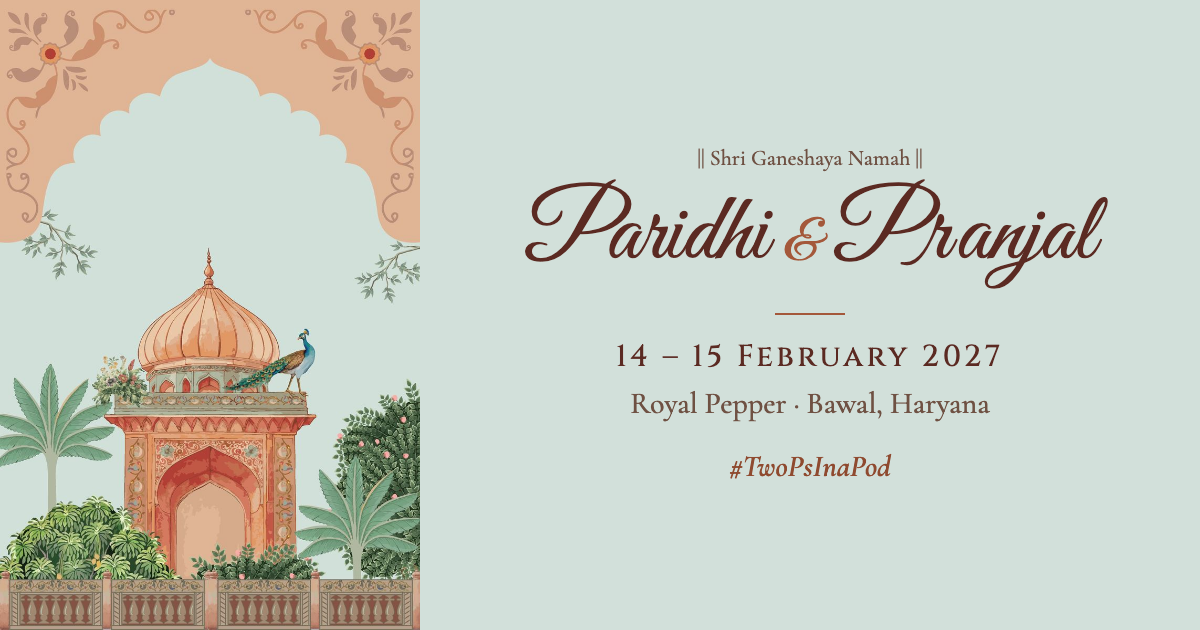
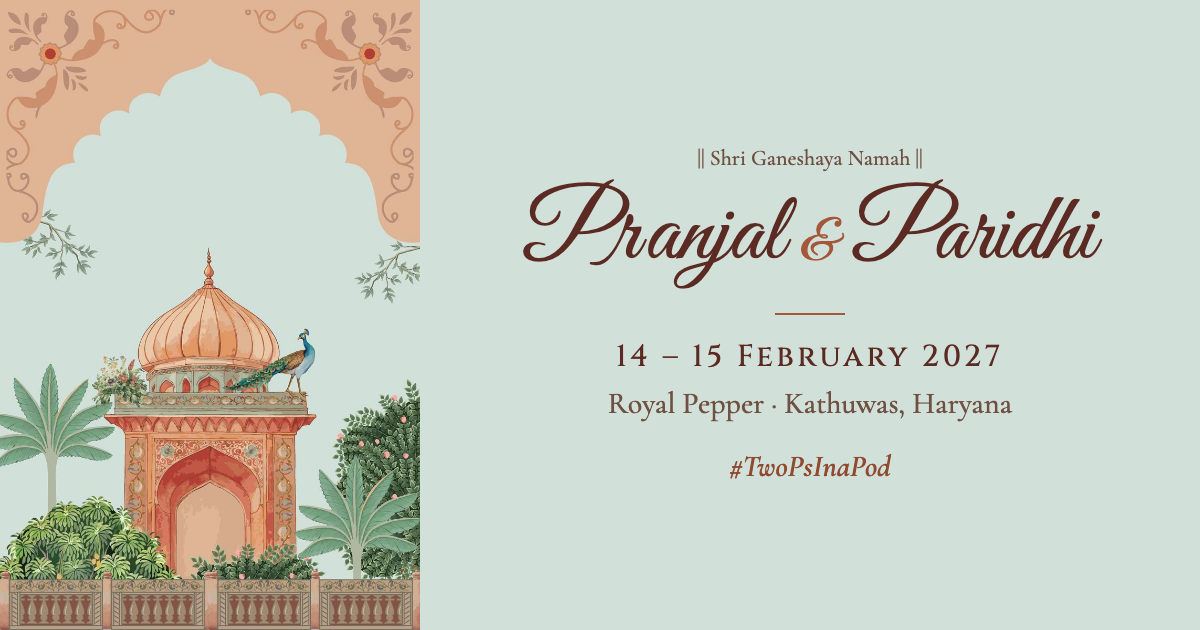
Match the printed cards: Pranjal & Paridhi, Royal Pepper in Kathuwas

Changed region(s): [[0.4317, 0.2714, 0.925, 0.4524], [0.4933, 0.6032, 0.8633, 0.6635], [0.4317, 0.3921, 0.4625, 0.4222]]

diff --git a/index.html b/index.html
@@ -3,11 +3,11 @@
 <head>
   <meta charset="utf-8" />
   <meta name="viewport" content="width=device-width, initial-scale=1" />
-  <title>Paridhi &amp; Pranjal · 14–15 February 2027</title>
+  <title>Pranjal &amp; Paridhi · 14–15 February 2027</title>
   <meta name="robots" content="noindex" />
-  <meta name="description" content="Join us in Bawal, Haryana on 14 and 15 February 2027 as Paridhi and Pranjal get married." />
-  <meta property="og:title" content="Paridhi &amp; Pranjal are getting married" />
-  <meta property="og:description" content="14–15 February 2027 · Royal Pepper, Bawal. Functions, venues, stay and RSVP." />
+  <meta name="description" content="Join us in Kathuwas, Haryana on 14 and 15 February 2027 as Pranjal and Paridhi get married." />
+  <meta property="og:title" content="Pranjal &amp; Paridhi are getting married" />
+  <meta property="og:description" content="14–15 February 2027 · Royal Pepper, Kathuwas. Functions, venues, stay and RSVP." />
   <meta property="og:type" content="website" />
   <meta property="og:url" content="https://pranjalg8.github.io/pwp-wedding-invite/" />
   <meta property="og:image" content="https://pranjalg8.github.io/pwp-wedding-invite/og.png" />
@@ -38,10 +38,10 @@
         <img class="hero-img" src="art/garden-800.jpg" srcset="art/garden-800.jpg 800w, art/garden-1200.jpg 1200w" sizes="(min-width: 640px) 560px, 100vw" width="1200" height="1800" fetchpriority="high" alt="A Mughal garden pavilion with a peacock, under a scalloped arch" />
         <div class="hero-text">
           <p class="gan">|| Shri Ganeshaya Namah ||</p>
-          <h1>Paridhi <span>&amp;</span> Pranjal</h1>
+          <h1>Pranjal <span>&amp;</span> Paridhi</h1>
           <i class="rule" aria-hidden="true"></i>
           <p class="hero-date">14 – 15 February 2027</p>
-          <p class="hero-place">Royal Pepper · Bawal, Haryana</p>
+          <p class="hero-place">Royal Pepper · Kathuwas, Haryana</p>
           <p class="hashtag">#TwoPsInaPod</p>
         </div>
       </div>
@@ -81,7 +81,7 @@
         <div class="venue">
           <div class="venue-card">
             <h3>Royal Pepper</h3>
-            <p>Our main venue in Bawal, Haryana. The wedding functions on both days take place here.</p>
+            <p>Our main venue in Kathuwas, Haryana. The wedding functions on both days take place here.</p>
             <ul class="facts">
               <li><span>Both days</span> 14 and 15 February 2027</li>
               <li><span>Stay</span> Rooms on site, lift available</li>
@@ -91,10 +91,10 @@
               <a class="btn btn-solid" id="map-main" target="_blank" rel="noopener" href="#">Open in Google Maps</a>
               <a class="btn btn-ghost" id="dir-main" target="_blank" rel="noopener" href="#">Get directions</a>
             </div>
-            <p class="note">Bawal is on the Delhi–Jaipur highway (NH48), a drive of roughly two hours from Gurugram. Plan some extra time for traffic.</p>
+            <p class="note">Kathuwas is on the Delhi–Jaipur highway (NH48), a drive of roughly two hours from Gurugram. Plan some extra time for traffic.</p>
           </div>
           <div class="map-wrap">
-            <iframe id="map-frame" title="Map of Royal Pepper, Bawal" loading="lazy" referrerpolicy="no-referrer-when-downgrade"></iframe>
+            <iframe id="map-frame" title="Map of Royal Pepper, Kathuwas" loading="lazy" referrerpolicy="no-referrer-when-downgrade"></iframe>
           </div>
         </div>
       </div>
@@ -201,8 +201,8 @@
   </main>
 
   <footer class="foot">
-    <p class="foot-names">Paridhi &amp; Pranjal</p>
-    <p>14 – 15 February 2027 · Bawal, Haryana</p>
+    <p class="foot-names">Pranjal &amp; Paridhi</p>
+    <p>14 – 15 February 2027 · Kathuwas, Haryana</p>
     <p class="hashtag">#TwoPsInaPod</p>
     <p class="small">With love, Pranjal and Paridhi. Questions? Ask any of the family.</p>
     <div class="railing" aria-hidden="true"></div>

diff --git a/app.js b/app.js
@@ -56,14 +56,14 @@
     return [`DTSTART:${utc(e.date, e.start)}`, `DTEND:${utc(e.date, endAt, endAt <= e.start ? 1 : 0)}`];
   };
   const ics = (events) => {
-    const lines = ['BEGIN:VCALENDAR', 'VERSION:2.0', 'PRODID:-//Paridhi and Pranjal//Wedding//EN', 'CALSCALE:GREGORIAN'];
+    const lines = ['BEGIN:VCALENDAR', 'VERSION:2.0', 'PRODID:-//Pranjal and Paridhi//Wedding//EN', 'CALSCALE:GREGORIAN'];
     events.forEach((e, i) => {
       lines.push(
         'BEGIN:VEVENT',
         `UID:pp-wedding-${e.key}-${i}@invite`,
         `DTSTAMP:${new Date().toISOString().replace(/[-:]/g, '').slice(0, 15)}Z`,
         ...when(e),
-        `SUMMARY:${e.name} (Paridhi & Pranjal)`.replace(/([,;])/g, '\\$1'),
+        `SUMMARY:${e.name} (Pranjal & Paridhi)`.replace(/([,;])/g, '\\$1'),
         `LOCATION:${venueOf(e).name}`.replace(/([,;])/g, '\\$1'),
         `DESCRIPTION:${e.time || e.part}. ${e.blurb}${e.start ? '' : ' Timing to be confirmed.'}`.replace(/([,;])/g, '\\$1'),
         'END:VEVENT',
@@ -154,7 +154,7 @@
     .then((r) => r.json())
     .then((m) => {
       if (!m.photos || !m.photos.length) return;
-      gal.innerHTML = m.photos.map((p) => `<figure><img loading="lazy" src="${esc(p.src)}" alt="${esc(p.alt || 'Paridhi and Pranjal')}" /></figure>`).join('');
+      gal.innerHTML = m.photos.map((p) => `<figure><img loading="lazy" src="${esc(p.src)}" alt="${esc(p.alt || 'Pranjal and Paridhi')}" /></figure>`).join('');
       $('#photos').hidden = false;
       $('#nav-photos').hidden = false;
     })

diff --git a/config.js b/config.js
@@ -6,7 +6,7 @@ window.INVITE = {
   // Map links are search links until the exact pins are pasted in. To use an exact pin, open the place in Google Maps,
   // press Share, and paste the short link as `maps` (and `embed` from Share > Embed a map, the src="" value).
   venues: {
-    main: { name: 'Royal Pepper, Bawal', query: 'Royal Pepper Bawal Haryana', maps: '', embed: '' },
+    main: { name: 'Royal Pepper, Kathuwas', query: 'Royal Pepper Bawal Haryana', maps: '', embed: '' },
     shrikanth: { name: 'Shri Kanth Hotel, Bawal', query: 'Shri Kanth Hotel Bawal Haryana', maps: '', embed: '' },
     sai: { name: 'Hotel Sai, Bawal', query: 'Hotel Sai Bawal Haryana', maps: '', embed: '' },
   },

diff --git a/README.md b/README.md
@@ -1,6 +1,6 @@
-# Paridhi & Pranjal: wedding invite site
+# Pranjal & Paridhi: wedding invite site
 
-A static, no-build website for GitHub Pages. 14 and 15 February 2027, Royal Pepper, Bawal.
+A static, no-build website for GitHub Pages. 14 and 15 February 2027, Royal Pepper, Kathuwas.
 
 Everything here is public. Never add keys, PINs, guest lists, phone numbers or bills.
 
